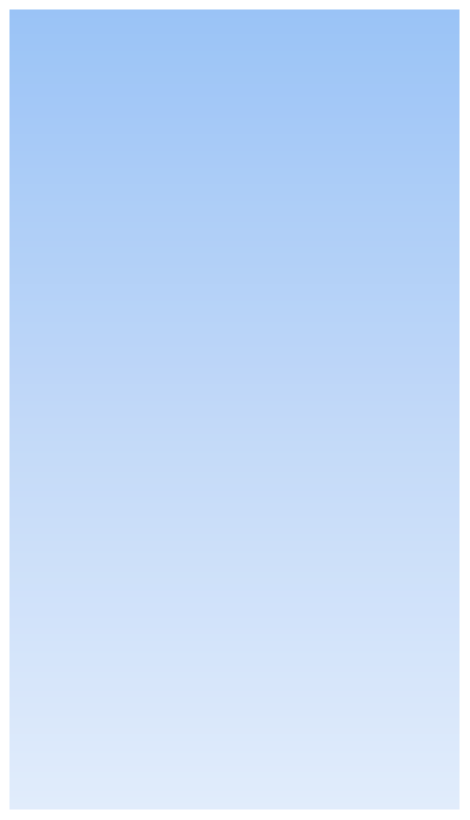
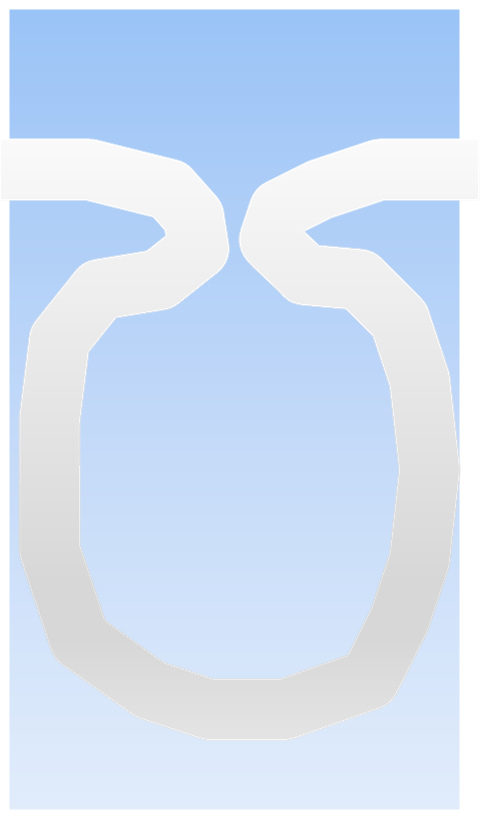
6tuj6tj

Changed region(s): [[0.0, 0.0, 0.983, 1.0]]

diff --git a/index.js b/index.js
@@ -21,7 +21,7 @@ g_process=function(){};
 
 
 
-var path=[[-10,170],[120,170],[190,200],[215,240],[180,270],[90,280],[50,330],[40,410],[40,540],[70,630],[140,680],[220,700],[295,700],[360,670],[400,620],[420,550],[430,420],[410,310],[350,270],[300,260],[280,235],[290,200],[350,170],[470,170]];
+var path=[[-10,160],[80,160],[160,180],[193,208],[188,244],[150,270],[90,280],[50,330],[40,410],[40,540],[70,630],[140,680],[200,700],[275,700],[360,670],[390,610],[410,550],[420,460],[410,370],[390,310],[350,270],[295,265],[260,230],[270,200],[310,180],[370,160],[470,160]];
 
 
 var l_info=[[10,20,3,0],[12,21,3,0.02],[14,22,3,0.04],[16,23,3,0.06],[18,24,3,0.08],[20,25,3,0.1],[22,26,3,0.12],[24,27,3,0.14],[26,28,3,0.16],[28,29,3,0.18],[30,30,3,0.2],[32,31,3,0.22],[34,32,3,0.24],[36,33,3,0.26],[38,34,3,0.28],[40,35,3,0.3],[42,36,3,0.32],[44,37,3,0.34],[46,38,3,0.36],[48,39,3,0.38],[50,40,3,0.4],[52,41,3,0.42],[54,42,3,0.44],[56,43,3,0.46],[58,44,3,0.48]];
